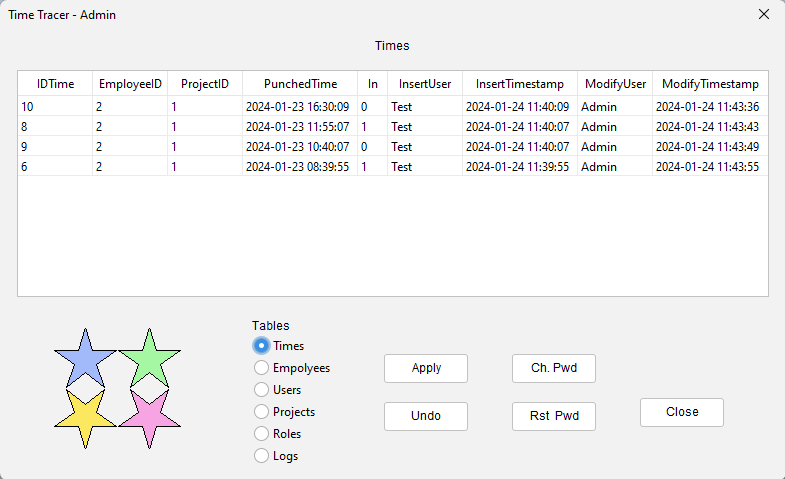
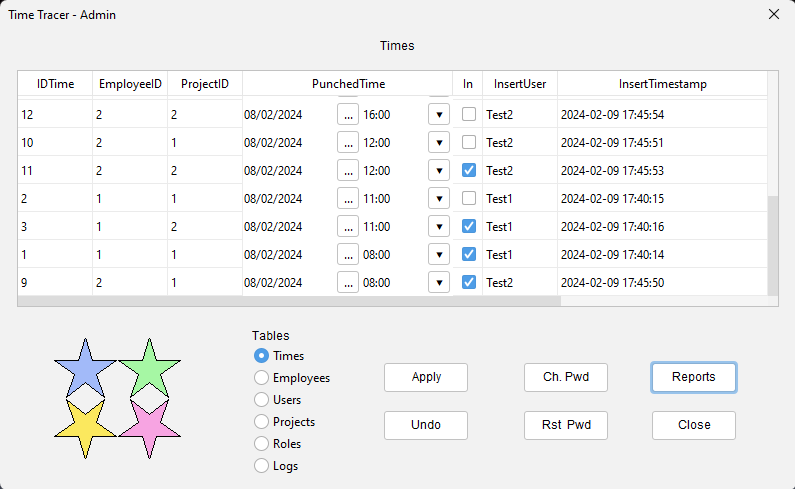
Updated Readme

diff --git a/Readme.md b/Readme.md
@@ -34,13 +34,15 @@ a jar in the *target/scala-3.3.1* folder
 4. To change table click on the corresponding radio button
 ---
 ![AdminConsole.png](ReadmeResources%2FAdminConsole.png)
-
+![date.png](ReadmeResources%2Fdate.png) ![time.png](ReadmeResources%2Ftime.png)
 5. To insert rows click inside the table and press the down arrow on the last row or anywhere on the table if there are no rows
 6. To modify data in the table just click on the field and start typing
+   - date and time fields will show date and time pickers
 7. To delete a row press *ctrl-del*
 8. The *Logs* table is read only
 9. To change the Admin password just click on the *Ch. Pwd* button
 10. To reset a user's password, open the *Users* table, select the user and click on the *Rst Pwd* button
+11. The *Reports* button will show the Reports dialog
 
 Any change will disable the radio buttons and show a "change pending" text, now you have the option to *apply* or *undo* the change with the corresponding button
 
@@ -48,27 +50,44 @@ Any change will disable the radio buttons and show a "change pending" text, now 
 ![FirstLoginChangePassword.png](ReadmeResources%2FFirstLoginChangePassword.png)
 ![PunchInForm.png](ReadmeResources%2FPunchInForm.png)
 
-11. Once  those tables are ready, the users can do their first login with their username and any password, then they will be prompted to change their password.
-12. Any non Admin user will then access their punch-in form.
-13. In the punch-in form they can choose the project to work on, and if they are punching IN or OUT.
-14. If there is at least 1 record for that employee in the *Times* table, the fields will be pre-filled and the last punch-in time will show on the bottom of the form.
-15. The *OK* button will just record the data and exit
-16. The *Accept* button will record the data but will not exit
-17. The *Remind* button will show a small dialog showing the punch-in time and the project, with the option to close or go back to the punch-in form
-18. The *Ch. Pwd* will let the user change their password
+12. Once  those tables are ready, the users can do their first login with their username and any password, then they will be prompted to change their password.
+13. Any non Admin user will then access their punch-in form.
+14. In the punch-in form they can choose the project to work on, and if they are punching IN or OUT.
+15. If there is at least 1 record for that employee in the *Times* table, the fields will be pre-filled and the last punch-in time will show on the bottom of the form.
+16. The *OK* button will just record the data and exit
+17. The *Accept* button will record the data but will not exit
+18. The *Remind* button will show a small dialog showing the punch-in time and the project, with the option to close or go back to the punch-in form
+19. The *Ch. Pwd* will let the user change their password
 
 ![Reminder.png](ReadmeResources%2FReminder.png)
 ![ChangePassword.png](ReadmeResources%2FChangePassword.png)
 ---
-19. All *OK* buttons can be clicked with the *Enter* key.
-20. All *Cancel* buttons can be clicked with the *Esc* key.
-21. You can navigate all fields with the *Tab* key in a natural order.
+20. All *OK* buttons can be clicked with the *Enter* key.
+21. All *Cancel* buttons can be clicked with the *Esc* key.
+22. You can navigate all fields with the *Tab* key in a natural order.
+---
+![reports.png](ReadmeResources%2Freports.png)
+
+The Reports dialog lets you generate reports about the times employees work on projects
+23. The Report Type dropdown has 3 report types
+    - Hours worked on project.
+    - Hours worked by employee.
+    - Hours worked on project by employee.
+24. You can choose a period of time by choosing appropriate from and to dates
+25. You can choose a project and/or an employee
+26. The button *Generate* opens the default browser with the chosen report in HTML.
+27. *Close* closes the app, *Back* goes back to the Admin console
+
+Example reports:
+![report1.png](ReadmeResources%2Freport1.png)
+![report2.png](ReadmeResources%2Freport2.png)
 
 ### Built With
 
 - Scala 3.3.1 https://scala-lang.org/
 - Scala Swing https://index.scala-lang.org/scala/scala-swing
-- Flatlaf  https://www.formdev.com/flatlaf/
+- Flatlaf https://www.formdev.com/flatlaf/
+- LGoodDatePicker https://github.com/LGoodDatePicker/LGoodDatePicker
 - MySQL https://www.mysql.com/it/
 
 ### Authors
